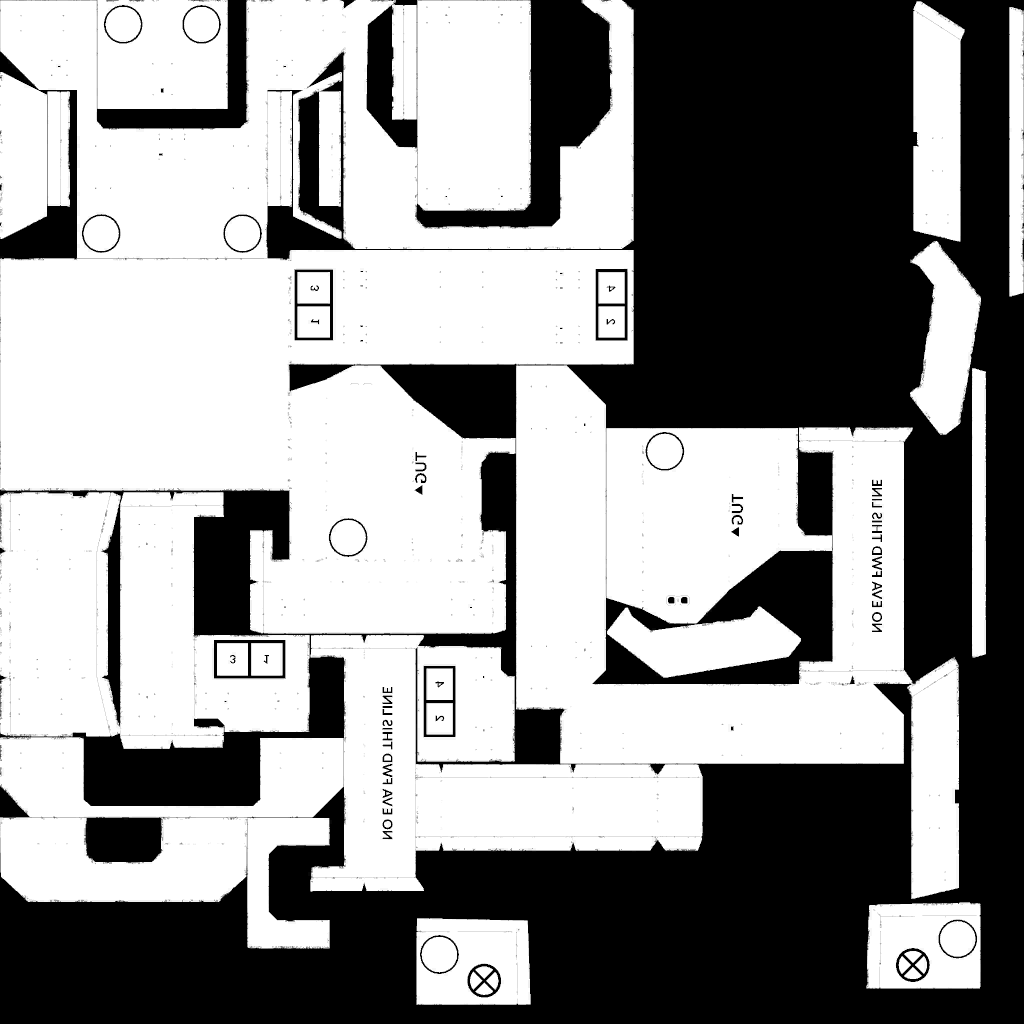
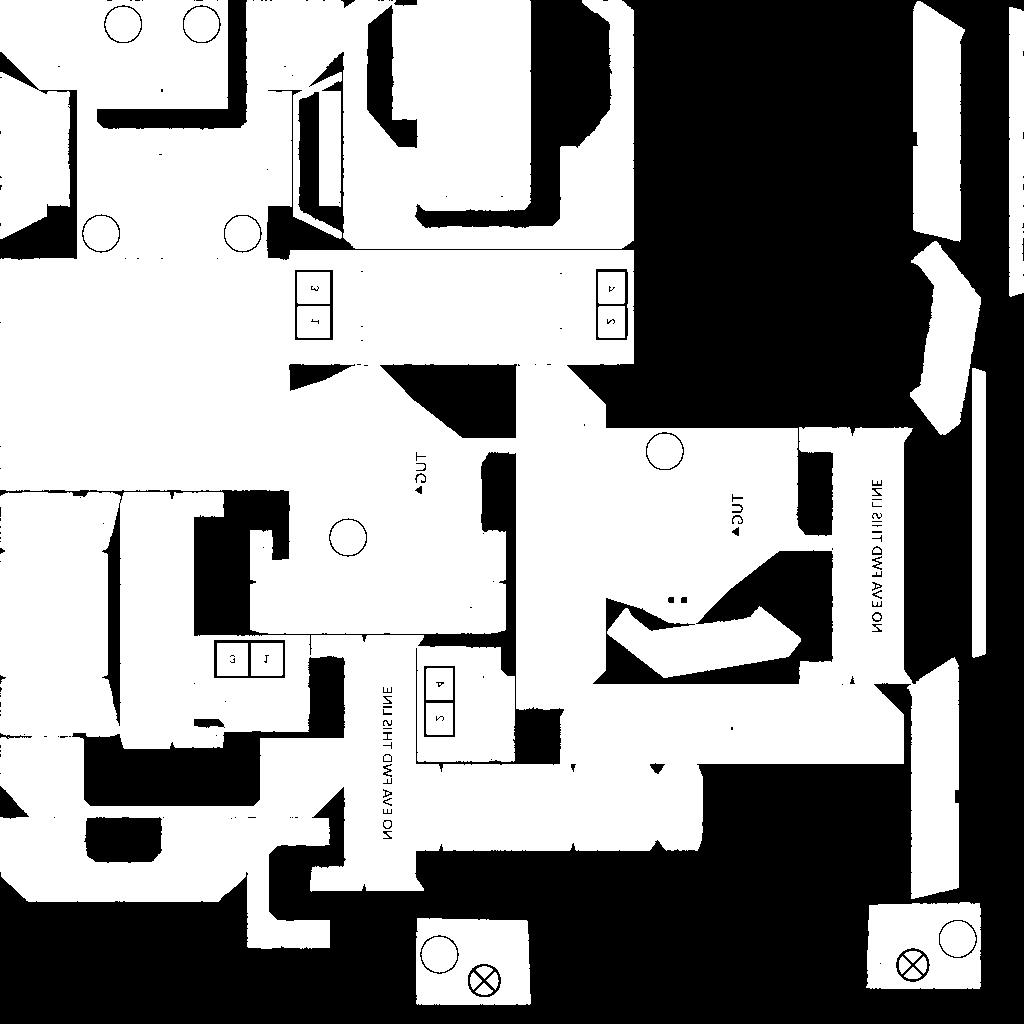
render: the paint reads as paint again - binary mask, no dark-band override
Three separate leftovers were mixing Base and Trim into brown:

* the exported mask was box-filtered down to 1024, so every boundary carried a ring of
  intermediate values, and lerp(Base, Trim, 0.5) is dark brown. The authored mask is
  binary, so the export now thresholds it back to 0/255 and leaves the single texel of
  blend to the sampler.
* the shader still pulled dark albedo pixels back to the base colour - a rule invented
  while the polarity was inverted. With the polarity fixed it speckled navy through
  every orange band, so it is gone.
* the bare-panel map shipped in 3c995e0 was a 128 px grid magnified over a 40 m hull and
  read as paint splotches. It is withdrawn: the vent grilles cannot be separated from
  the plating by brightness, mask value or local contrast, all measured, so the exporter
  no longer emits one. The renderer keeps the optional slot for a hand-authored table.

Assets re-extracted at 42.54 MiB, 35 verify checks pass, 7/7 tests pass.

diff --git a/tools/extract/export.py b/tools/extract/export.py
@@ -386,30 +386,6 @@ def _interleave(red, green, blue):
     return values
 
 
-def _box_mean(values, width, height, radius):
-    """Mean of a square window clamped at the borders, in one pass over an integral image."""
-    integral = [0] * ((width + 1) * (height + 1))
-    for y in range(height):
-        run = 0
-        row = y * width
-        out = (y + 1) * (width + 1)
-        prev = y * (width + 1)
-        for x in range(width):
-            run += values[row + x]
-            integral[out + x + 1] = integral[prev + x + 1] + run
-    result = [0.0] * (width * height)
-    for y in range(height):
-        y0 = max(y - radius, 0)
-        y1 = min(y + radius + 1, height)
-        for x in range(width):
-            x0 = max(x - radius, 0)
-            x1 = min(x + radius + 1, width)
-            total = (integral[y1 * (width + 1) + x1] - integral[y0 * (width + 1) + x1]
-                     - integral[y1 * (width + 1) + x0] + integral[y0 * (width + 1) + x0])
-            result[y * width + x] = total / float((y1 - y0) * (x1 - x0))
-    return result
-
-
 def _interleave_rgba(red, green, blue, alpha):
     """Pack four channels into one RGBA payload."""
     values = bytearray(len(red) * 4)
@@ -610,8 +586,7 @@ class MaterialBuilder(object):
         if albedo and mask:
             definition["maskMode"] = self._mask_mode(albedo, sources["albedo"][0], mask)
             definition["maskInvert"] = definition["maskMode"] != "keep"
-            if definition["maskMode"] == "trim":
-                self._build_bare(definition, albedo, name)
+
 
         normal, normal_origin = sources["normal"]
         if normal:
@@ -789,44 +764,13 @@ class MaterialBuilder(object):
                  % (definition["id"], name, channel, dark * 100.0, origin))
         values, width, height = textures.downsample(values, width, height,
                                                    self.sizes["mask"])
+        # A resampled mask has a band of intermediate values on every edge; mixing Base and
+        # Trim by half produces brown, which is what made the paint look dirty. The authored
+        # mask is binary, so the export keeps it binary and lets the sampler do the only
+        # blend (one texel wide).
+        values = bytearray(255 if value >= 128 else 0 for value in values)
         definition["mask"] = self._write("mask", definition, source, width, height,
                                          1, values)
-
-    def _build_bare(self, definition, albedo_source, name):
-        """Plate-scale brightness map: paint stops on the brightest plates, bare metal shows.
-
-        The vent grilles and the light deck plates are not brighter per texel and carry no
-        separate mask value -- what makes them read bare in the game is that a whole plate is
-        left unpainted. Thresholding the albedo per texel therefore only produces speckle, so
-        the cut runs on a blurred copy and the renderer filters the result back up.
-        """
-        # Only the marauder (CivBulk) plating carries the louvred vents the reference shows;
-        # the Moorline pages are uniform plating and the same rule only speckles them.
-        if "civbulk" not in name.lower() and "marauder" not in name.lower():
-            return
-        try:
-            _n, width, height, channels, _f = self._sample("albedo", albedo_source)
-        except Exception:
-            return
-        red = channels[0]
-        size = 128
-        small, sw, sh = textures.downsample(red, width, height, size)
-        if sw < 8 or sh < 8:
-            return
-        # Local contrast, not absolute brightness: a plate is bare when it stands out from its
-        # own neighbourhood. The cut is a fixed quantile so every sheet contributes the same
-        # share of standing-out plates, whatever its overall exposure.
-        near = _box_mean(small, sw, sh, 2)
-        far = _box_mean(small, sw, sh, 14)
-        contrast = [near[i] - far[i] for i in range(sw * sh)]
-        ranked = sorted(contrast)
-        cut = max(ranked[min(len(ranked) - 1, int(len(ranked) * 0.94))], 10.0)
-        values = bytearray(255 if value >= cut else 0 for value in contrast)
-        covered = sum(1 for value in values if value) / float(sw * sh)
-        definition["bareMask"] = self._write("bare", definition, albedo_source, sw, sh,
-                                             1, values)
-        self.log("    bare %s <- %d/%d, %.1f%% bare"
-                 % (definition["id"], sw, sh, covered * 100.0))
 
     def _mask_mode(self, albedo_source, mask_source_key, mask_source):
         """"keep" when the mask's zero side keeps a distinctly coloured authored albedo."""
@@ -1183,12 +1127,12 @@ def extract(bundle_path, out_dir, sizes=None, log=None, max_bytes=None,
     log = log or Logger()
     sizes = dict(DEFAULT_SIZES, **(sizes or {}))
     started = time.time()
-    folders = ("mesh", "mask", "albedo", "normal", "decal", "bare")
+    folders = ("mesh", "mask", "albedo", "normal", "decal")
     for sub in folders:
         os.makedirs(os.path.join(out_dir, sub), exist_ok=True)
     for sub, suffix in (("mesh", ".nlmesh"), ("mask", ".png"),
                         ("albedo", ".png"), ("normal", ".png"),
-                        ("decal", ".png"), ("bare", ".png")):
+                        ("decal", ".png")):
         folder = os.path.join(out_dir, sub)
         for name in os.listdir(folder):
             if name.endswith(suffix):

diff --git a/src/app/view/HullRenderer.cpp b/src/app/view/HullRenderer.cpp
@@ -176,9 +176,6 @@ void main()
         // The hull atlas carries near-white panels (vent grilles, radiator stripes) that the game
         // leaves unpainted. Their albedo is the colour, so blend it back over the paint.
         float albedoLuma24 = dot(albedoSample, vec3(0.2990, 0.5870, 0.1140));
-        // The atlas also carries dark structural bands that the game leaves in the base colour:
-        // pull them out of the trim so the orange stops flooding the hull.
-        painted = mix(painted, uBaseColor.rgb, smoothstep(0.42, 0.16, albedoLuma24));
         // Louvred vents stay bare metal in the game: the paint stops at the frame. Neither the
         // mask nor the brightness can find them, so the exporter bakes their coverage.
         float bare = (uMaskKeep > 0.5 || !uHasBare)
@@ -189,7 +186,8 @@ void main()
             vec3 authored = uMaterialColor.rgb * albedoSample;
             painted = mix(authored, uBaseColor.rgb, trim);
         }
-        vec3 detail = albedoSample / max(uAlbedoMean, 0.05);
+        // The atlas seams are dark; left unbounded the detail map turns the trim bands brown.
+        vec3 detail = clamp(albedoSample / max(uAlbedoMean, 0.05), vec3(0.72), vec3(1.30));
         color = painted * mix(vec3(1.0), detail, clamp(uAlbedoDetail, 0.0, 1.0));
         // Bare panels are metals lit by an environment this viewer has no probe for, so the
         // albedo is lifted toward the plate colour the game shows.

diff --git a/tools/extract/verify.py b/tools/extract/verify.py
@@ -566,8 +566,8 @@ def verify(catalog, out_dir, stats, max_bytes=None, samples="samples",
         owner = (names.get(material["id"]) or "").lower()
         if "civbulk" not in owner and "marauder" not in owner:
             bare_bad.append(material["id"])
-    report.check("bare panels are exported for the marauder plating only",
-                 bare_ok > 0 and not bare_bad,
+    report.check("bare panel maps only ship for the marauder plating",
+                 not bare_bad,
                  "%d bare maps%s" % (bare_ok, "" if not bare_bad
                                      else "; unexpected " + ", ".join(bare_bad[:3])))
 
